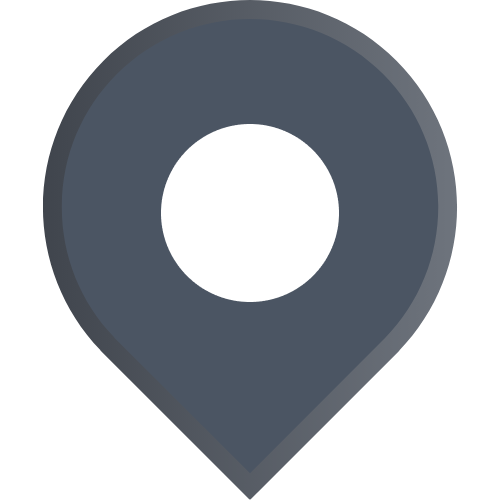
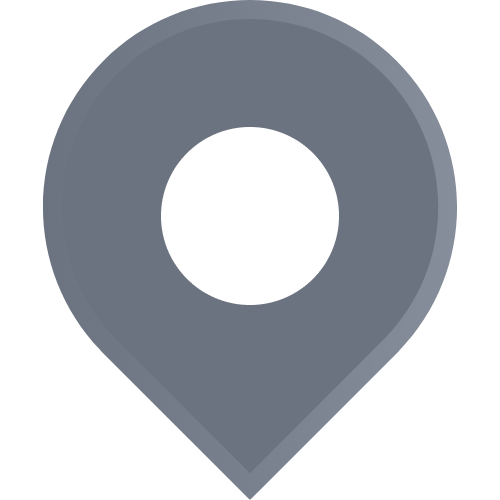
Changed colour of card pin

diff --git a/components/ItemCardContainer.js b/components/ItemCardContainer.js
@@ -3,7 +3,7 @@ import React from 'react';
 import { FontAwesome5 } from '@expo/vector-icons';
 import { useNavigation } from '@react-navigation/native';
 import * as Animatable from 'react-native-animatable';
-import { GreyPin } from '../assets';
+import { DarkGreyPin, GreyPin } from '../assets';
 
 const ItemCardContainer = ({ imageSrc, name, location, data }) => {
     const navigation = useNavigation();
@@ -24,7 +24,7 @@ const ItemCardContainer = ({ imageSrc, name, location, data }) => {
                             </Text>
 
                             <View className="flex-row items-center space-x-1">
-                                <Image source={GreyPin} className="w-3 h-3 object-cover" />
+                                <Image source={DarkGreyPin} className="w-3 h-3 object-cover" />
                                 <Text style={{ fontFamily: 'Inter_400Regular'}} className="text-gray-500 text-sm">
                                     {location?.length > 18 ? `${location.slice(0,24)}..` : location}
                                 </Text>

diff --git a/api/index.js b/api/index.js
@@ -22,13 +22,13 @@ export const getPlacesData = async ( { bl_lat, bl_lng, tr_lat, tr_lng }, type ) 
         lang: 'en_US'
     }
     
-    // try {
-    //     const response = await axios.get(url, {headers: headers, params: params});
-    //     const data = response.data.data;
-    //     return data;
-    // } catch (error) {
-    //     console.log(error.response);
-    // }
+    try {
+        const response = await axios.get(url, {headers: headers, params: params});
+        const data = response.data.data;
+        return data;
+    } catch (error) {
+        console.log(error.response);
+    }
 };
 
 export const getUserLocation = async ( location ) => {

diff --git a/screens/DiscoverScreen.js b/screens/DiscoverScreen.js
@@ -78,7 +78,7 @@ const Discover = () => {
             </View>
 
             {/* Google Places Search Input */}
-            <View className="flex-row items-start bg-white mx-4 rounded-xl py-1 px-4 shadow-md m-8">
+            <View className="flex-row items-start bg-white mx-4 rounded-full py-1 px-4 shadow-md m-8">
                 <Image source={Search} className="w-4 h-4 object-cover mr-1 mt-4"/>
                 <GooglePlacesAutocomplete
                     GooglePlacesDetailsQuery={{ fields: "geometry" }}

diff --git a/assets/index.js b/assets/index.js
@@ -24,6 +24,7 @@ export { default as Search} from "./search.png";
 export { default as HomeMorning} from "./home-morning.png";
 export { default as WhitePin} from "./pin-white.png";
 export { default as GreyPin} from "./pin-grey.png";
+export { default as DarkGreyPin} from "./pin-grey-dark.png";
 export { default as BluePin} from "./pin-blue.png";
 export { default as BluePinSmall} from "./pin-blue-small.png";
 export { default as BluePinNavi} from "./pin-blue-navi.png";
